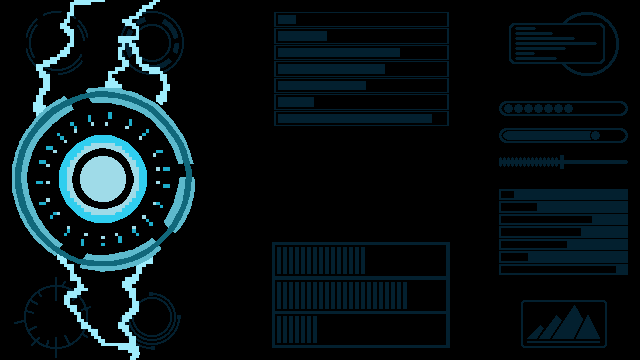
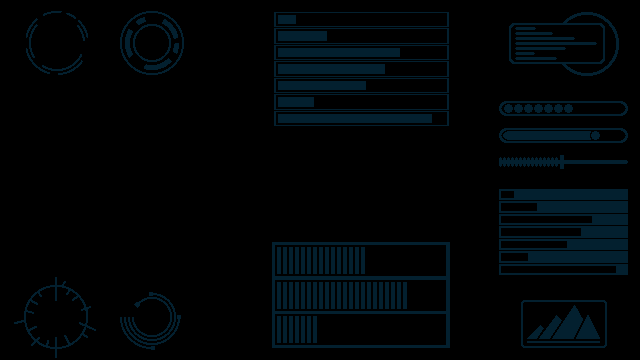
Primera versión decente del menu

diff --git a/YouNeedHealing.html b/YouNeedHealing.html
@@ -16,16 +16,27 @@
     <body>        
         <section id= "menu-window" class="main-menu" style="height:100%; padding:auto">
             <p class="title">You Need Healing</p>
-            <button id="1player-button" class="menu-button"><span title="1_jugador" class = "traducible">1 Jugador</span></button>
-            <button id="2player-button" class="menu-button"><span title="2_jugadores" class = "traducible">2 Jugadores</span></button>
             
-            <hr>
+            <img class="menu-image" src="assets/bg_roll.png">
             
-            <button id="credits-button" class="menu-button"><span title="creditos" class = "traducible">Créditos</span></button>
-            <br>
-            <button id="settings-button" class="menu-button"><span title="ajustes" class = "traducible">Ajustes</span></button>
-            <br>
-            <button id="highscore-button" class="menu-button">HighScore</button>            
+            <div class="btn-group">
+                <button id="1player-button" class="menu-btn" style="top: 200px; background-image: url('assets/btn1.png')">
+                    <span title="1_jugador" class = "traducible">1 Jugador</span></button>
+                <br>
+                <button id="2player-button" class="menu-btn" style="top: 330px; left: 610px; width: 600px; height: 110px;
+                        background-size: 600px 110px; background-image: url('assets/btn5.png')">
+                    <span title="2_jugadores" class = "traducible">2 Jugadores</span></button>
+                <br>
+                <button id="highscore-button" class="menu-btn" style="top: 462px; left: 650px; width: 600px; height: 110px;
+                        background-size: 600px 110px;background-image: url('assets/btn4.png')"> HighScore</button>  
+                <br>
+                <button id="settings-button" class="menu-btn" style="top: 590px; left: 610px; width: 600px; height: 110px;
+                        background-size: 600px 110px; background-image: url('assets/btn2.png')">
+                    <span title="ajustes" class = "traducible">Ajustes</span></button>
+                <br>
+                <button id="credits-button" class="menu-btn" style="top: 700px; background-image: url('assets/btn3.png')">
+                    <span title="creditos" class = "traducible">Créditos</span></button>
+            </div>
         </section> 
         
         <section id="settings-window" class ="settings-menu">

diff --git a/css/youNeedHealing.css b/css/youNeedHealing.css
@@ -4,6 +4,12 @@
     --light-color: #b8e88b;
     --dark-color: #036831;
     --my-black: #2d2d2d;
+    --text-blue: #5db9cc;
+}
+
+@font-face {
+    font-family: Telemarines1Import;
+    src: url("telemarines.ttf");
 }
 
 html{
@@ -12,19 +18,21 @@ html{
 }
 
 body{
+    font-family: Telemarines1Import;
     text-align: center;
     margin: 0 auto;
-    background-color: #c3e6a3;
-    color: var(--my-black);
+    color: var(--text-blue);
     height:100%;
+    width: 100%;
+    background: #000;
 }
 
 .title{
-    font-size:350%;
+    font-size:600%;
     font-weight: bold;
     margin:0px;
     padding: auto;
-    height: 12%;
+    height: 15%;
 }
 
 .settings-title{
@@ -36,9 +44,51 @@ body{
 .main-menu{    
     padding: 40px;  
     padding-top: 10px;
-    background-image: url("assets/bg.png");
+    background-image: url("../assets/bg.png");
+    background-repeat: no-repeat;
+    background-size: 100% 100%;
 }
 
+.menu-image{
+    position: absolute;
+    top: 0px;
+    left: 50px;
+    height: 100%;
+}
+
+.menu-btn{
+    background-image: url("/you-need-healing/assets/btn1.png");
+    background-color: rgba(0, 0, 0, 0);
+    border: none;
+    background-repeat: no-repeat;
+    width: 600px;
+    height: 138px;
+    background-size: 600px 130px;
+    position: absolute;
+    top: 200px;
+    left: 540px;
+    
+    font-family: Telemarines1Import;
+    font-weight: bold;
+    font-size: 400%;
+    transform-origin: 0% 0%;
+}
+
+.menu-btn:hover{
+    transform: scaleX(1.1);
+}
+
+.menu-btn:focus{
+	outline-style:none;
+}
+
+.btn-group{
+    position: absolute;
+    top: -25px;
+    left: -45px;
+}
+
+/*
 .menu-button{
     height: 16%;
     width: 25%;    
@@ -65,6 +115,8 @@ body{
     background-image: -moz-linear-gradient(-45deg, var(--light-color) 20%, var(--main-color) 70%);
     background-image: -webkit-gradient(linear, left top, right bottom, color-stop(0.2, var(--light-color)), color-stop(0.8, var(--main-color)));
 }
+*/
+
 .menu-button:active{
     background: var(--main-color);
     background-image: -moz-linear-gradient(-45deg, var(--main-color) 20%, var(--secondary-color) 70%);
